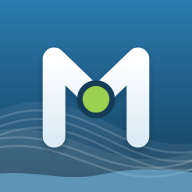
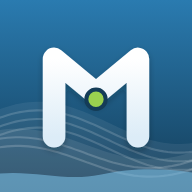
Ícone M: paragem central mais pequena

diff --git a/src/components/Logo.tsx b/src/components/Logo.tsx
@@ -17,10 +17,10 @@ export function LogoMark({ className = 'h-9 w-9', onDark = false }: { className?
 <g clipPath="url(#rm-cl)"><path d="M-10.0 117.5 L-5.6 115.7 L-1.2 114.0 L3.2 112.5 L7.6 111.1 L12.0 109.8 L16.4 108.7 L20.8 107.8 L25.2 107.1 L29.6 106.5 L34.0 106.2 L38.4 106.0 L42.8 106.0 L47.2 106.3 L51.6 106.7 L56.0 107.3 L60.4 108.1 L64.8 109.0 L69.2 110.2 L73.6 111.5 L78.0 112.9 L82.4 114.5 L86.8 116.2 L91.2 118.0 L95.6 119.8 L100.0 121.8 L104.4 123.8 L108.8 125.9 L113.2 127.9 L117.6 130.0 L122.0 132.1 L126.4 134.1 L130.8 136.0 L135.2 137.9 L139.6 139.7 L144.0 141.4 L148.4 143.0 L152.8 144.5 L157.2 145.8 L161.6 146.9 L166.0 147.9 L170.4 148.7 L174.8 149.3 L179.2 149.7 L183.6 150.0 L188.0 150.0 L192.4 149.8 L196.8 149.5 L201.2 148.9 L205.6 148.2 L210.0 147.3 L210 210 L-10 210Z" fill="#fff" fillOpacity=".07"/><path d="M-10.0 126.5 L-5.6 124.7 L-1.2 123.0 L3.2 121.5 L7.6 120.1 L12.0 118.8 L16.4 117.7 L20.8 116.8 L25.2 116.1 L29.6 115.5 L34.0 115.2 L38.4 115.0 L42.8 115.0 L47.2 115.3 L51.6 115.7 L56.0 116.3 L60.4 117.1 L64.8 118.0 L69.2 119.2 L73.6 120.5 L78.0 121.9 L82.4 123.5 L86.8 125.2 L91.2 127.0 L95.6 128.8 L100.0 130.8 L104.4 132.8 L108.8 134.9 L113.2 136.9 L117.6 139.0 L122.0 141.1 L126.4 143.1 L130.8 145.0 L135.2 146.9 L139.6 148.7 L144.0 150.4 L148.4 152.0 L152.8 153.5 L157.2 154.8 L161.6 155.9 L166.0 156.9 L170.4 157.7 L174.8 158.3 L179.2 158.7 L183.6 159.0 L188.0 159.0 L192.4 158.8 L196.8 158.5 L201.2 157.9 L205.6 157.2 L210.0 156.3" fill="none" stroke="#fff" strokeOpacity="0.16" strokeWidth="2.2"/><path d="M-10.0 135.5 L-5.6 133.7 L-1.2 132.0 L3.2 130.5 L7.6 129.1 L12.0 127.8 L16.4 126.7 L20.8 125.8 L25.2 125.1 L29.6 124.5 L34.0 124.2 L38.4 124.0 L42.8 124.0 L47.2 124.3 L51.6 124.7 L56.0 125.3 L60.4 126.1 L64.8 127.0 L69.2 128.2 L73.6 129.5 L78.0 130.9 L82.4 132.5 L86.8 134.2 L91.2 136.0 L95.6 137.8 L100.0 139.8 L104.4 141.8 L108.8 143.9 L113.2 145.9 L117.6 148.0 L122.0 150.1 L126.4 152.1 L130.8 154.0 L135.2 155.9 L139.6 157.7 L144.0 159.4 L148.4 161.0 L152.8 162.5 L157.2 163.8 L161.6 164.9 L166.0 165.9 L170.4 166.7 L174.8 167.3 L179.2 167.7 L183.6 168.0 L188.0 168.0 L192.4 167.8 L196.8 167.5 L201.2 166.9 L205.6 166.2 L210.0 165.3" fill="none" stroke="#fff" strokeOpacity="0.16" strokeWidth="2.2"/><path d="M-10.0 144.5 L-5.6 142.7 L-1.2 141.0 L3.2 139.5 L7.6 138.1 L12.0 136.8 L16.4 135.7 L20.8 134.8 L25.2 134.1 L29.6 133.5 L34.0 133.2 L38.4 133.0 L42.8 133.0 L47.2 133.3 L51.6 133.7 L56.0 134.3 L60.4 135.1 L64.8 136.0 L69.2 137.2 L73.6 138.5 L78.0 139.9 L82.4 141.5 L86.8 143.2 L91.2 145.0 L95.6 146.8 L100.0 148.8 L104.4 150.8 L108.8 152.9 L113.2 154.9 L117.6 157.0 L122.0 159.1 L126.4 161.1 L130.8 163.0 L135.2 164.9 L139.6 166.7 L144.0 168.4 L148.4 170.0 L152.8 171.5 L157.2 172.8 L161.6 173.9 L166.0 174.9 L170.4 175.7 L174.8 176.3 L179.2 176.7 L183.6 177.0 L188.0 177.0 L192.4 176.8 L196.8 176.5 L201.2 175.9 L205.6 175.2 L210.0 174.3" fill="none" stroke="#fff" strokeOpacity="0.16" strokeWidth="2.2"/><path d="M-10.0 137.3 L-5.6 136.4 L-1.2 135.6 L3.2 135.0 L7.6 134.5 L12.0 134.2 L16.4 134.0 L20.8 134.0 L25.2 134.2 L29.6 134.5 L34.0 135.0 L38.4 135.6 L42.8 136.4 L47.2 137.3 L51.6 138.3 L56.0 139.5 L60.4 140.7 L64.8 142.1 L69.2 143.5 L73.6 145.0 L78.0 146.6 L82.4 148.1 L86.8 149.7 L91.2 151.4 L95.6 152.9 L100.0 154.5 L104.4 156.0 L108.8 157.5 L113.2 158.9 L117.6 160.2 L122.0 161.3 L126.4 162.4 L130.8 163.4 L135.2 164.2 L139.6 164.9 L144.0 165.4 L148.4 165.7 L152.8 166.0 L157.2 166.0 L161.6 165.9 L166.0 165.6 L170.4 165.2 L174.8 164.6 L179.2 163.9 L183.6 163.0 L188.0 162.0 L192.4 160.8 L196.8 159.6 L201.2 158.3 L205.6 156.9 L210.0 155.4 L210 210 L-10 210Z" fill="#fff" fillOpacity=".09"/><path d="M-10.0 146.3 L-5.6 145.4 L-1.2 144.6 L3.2 144.0 L7.6 143.5 L12.0 143.2 L16.4 143.0 L20.8 143.0 L25.2 143.2 L29.6 143.5 L34.0 144.0 L38.4 144.6 L42.8 145.4 L47.2 146.3 L51.6 147.3 L56.0 148.5 L60.4 149.7 L64.8 151.1 L69.2 152.5 L73.6 154.0 L78.0 155.6 L82.4 157.1 L86.8 158.7 L91.2 160.4 L95.6 161.9 L100.0 163.5 L104.4 165.0 L108.8 166.5 L113.2 167.9 L117.6 169.2 L122.0 170.3 L126.4 171.4 L130.8 172.4 L135.2 173.2 L139.6 173.9 L144.0 174.4 L148.4 174.7 L152.8 175.0 L157.2 175.0 L161.6 174.9 L166.0 174.6 L170.4 174.2 L174.8 173.6 L179.2 172.9 L183.6 172.0 L188.0 171.0 L192.4 169.8 L196.8 168.6 L201.2 167.3 L205.6 165.9 L210.0 164.4" fill="none" stroke="#fff" strokeOpacity="0.18" strokeWidth="2.2"/><path d="M-10.0 155.3 L-5.6 154.4 L-1.2 153.6 L3.2 153.0 L7.6 152.5 L12.0 152.2 L16.4 152.0 L20.8 152.0 L25.2 152.2 L29.6 152.5 L34.0 153.0 L38.4 153.6 L42.8 154.4 L47.2 155.3 L51.6 156.3 L56.0 157.5 L60.4 158.7 L64.8 160.1 L69.2 161.5 L73.6 163.0 L78.0 164.6 L82.4 166.1 L86.8 167.7 L91.2 169.4 L95.6 170.9 L100.0 172.5 L104.4 174.0 L108.8 175.5 L113.2 176.9 L117.6 178.2 L122.0 179.3 L126.4 180.4 L130.8 181.4 L135.2 182.2 L139.6 182.9 L144.0 183.4 L148.4 183.7 L152.8 184.0 L157.2 184.0 L161.6 183.9 L166.0 183.6 L170.4 183.2 L174.8 182.6 L179.2 181.9 L183.6 181.0 L188.0 180.0 L192.4 178.8 L196.8 177.6 L201.2 176.3 L205.6 174.9 L210.0 173.4" fill="none" stroke="#fff" strokeOpacity="0.18" strokeWidth="2.2"/><path d="M-10 182C30 175 66 190 104 182S170 175 210 181V210H-10Z" fill="#7ec3ea" fillOpacity=".55"/></g>
 
 <g filter="url(#rm-sh)">
-<path d="M48 150V54L100 104" fill="none" stroke="url(#rm-gv)" strokeWidth="28" strokeLinecap="round" strokeLinejoin="round"/>
-<path d="M100 104L152 54V150" fill="none" stroke="url(#rm-rv)" strokeWidth="28" strokeLinecap="round" strokeLinejoin="round"/>
+<path d="M48 150V54L100 97" fill="none" stroke="url(#rm-gv)" strokeWidth="28" strokeLinecap="round" strokeLinejoin="round"/>
+<path d="M100 97L152 54V150" fill="none" stroke="url(#rm-rv)" strokeWidth="28" strokeLinecap="round" strokeLinejoin="round"/>
 </g>
-<circle cx="100" cy="104" r="20" fill="#9bd14f" stroke="#143c57" strokeWidth="7"/>
+<circle cx="100" cy="104" r="12" fill="#9bd14f" stroke="#143c57" strokeWidth="5"/>
 
     </svg>
   )
